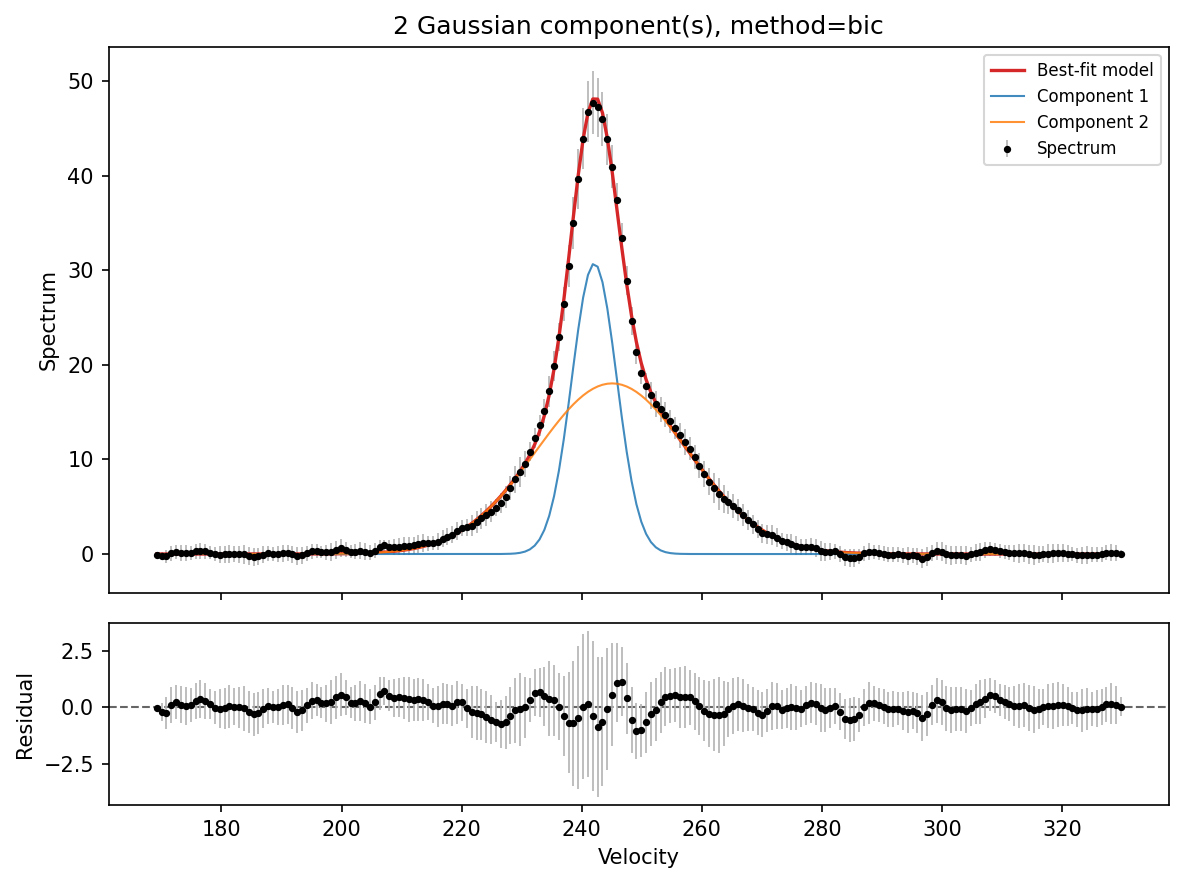
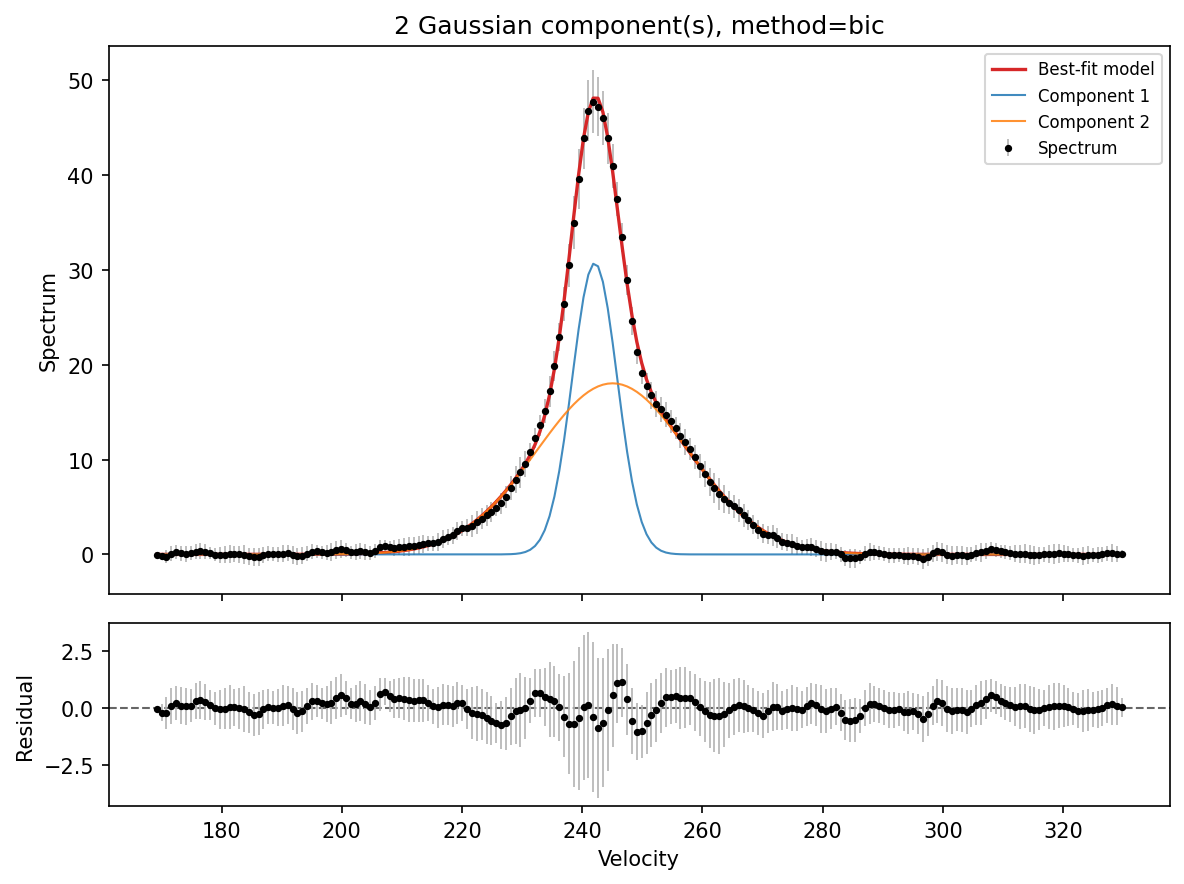
Release v1.0.0

diff --git a/src/gaussFitSpec/fitting.py b/src/gaussFitSpec/fitting.py
@@ -8,6 +8,7 @@ import warnings
 import numpy as np
 import pandas as pd
 from scipy import stats
+from scipy.ndimage import convolve1d
 from scipy.ndimage import gaussian_filter1d
 from scipy.optimize import OptimizeWarning, curve_fit
 from scipy.signal import find_peaks
@@ -122,6 +123,8 @@ def fit_spectrum(
     max_fwhm=None,
     initial_centers=None,
     fixed_n_components=None,
+    bic_weight=10.0,
+    verbose=False,
 ):
     """Fit a 1D spectrum with multiple Gaussian components.
 
@@ -153,6 +156,13 @@ def fit_spectrum(
             automatic model selection.
         fixed_n_components: Optional fixed number of components to fit. When
             provided, automatic model selection is skipped.
+        bic_weight: Minimum BIC improvement required before accepting an
+            additional Gaussian component when ``method="bic"``. This also
+            controls the extra penalty term applied to weak components, matching
+            the behavior of the reference fitting script.
+        verbose: If ``True``, print per-iteration progress messages during
+            sequential model selection. For BIC fits this includes the BIC
+            value and number of Gaussian components tried.
 
     Returns:
         A :class:`SpectrumFitResult` containing the component table, model
@@ -188,6 +198,8 @@ def fit_spectrum(
         spectrum_err=spectrum_err,
         min_fwhm=min_fwhm,
         max_fwhm=max_fwhm,
+        bic_weight=float(bic_weight),
+        verbose=bool(verbose),
     )
 
     if initial_centers is not None:
@@ -274,10 +286,12 @@ def _estimate_noise(spectrum):
 class _SequentialGaussianFitter:
     """Sequential model builder inspired by the original script logic."""
 
-    def __init__(self, velocity, spectrum, spectrum_err, min_fwhm=None, max_fwhm=None):
+    def __init__(self, velocity, spectrum, spectrum_err, min_fwhm=None, max_fwhm=None, bic_weight=10.0, verbose=False):
         self.velocity = velocity
         self.spectrum = spectrum
         self.spectrum_err = spectrum_err
+        self.bic_weight = float(bic_weight)
+        self.verbose = bool(verbose)
         self.noise = float(np.nanmedian(np.abs(spectrum_err)))
         self.dx = float(np.nanmedian(np.diff(velocity)))
         velocity_span = float(velocity.max() - velocity.min())
@@ -307,16 +321,75 @@ class _SequentialGaussianFitter:
         return params, covariance, stats_dict
 
     def select_bic(self, max_components):
-        best = None
-        previous_params = None
-        for n_components in range(1, max_components + 1):
-            params, covariance, stats_dict = self._fit_next_model(n_components, previous_params)
-            previous_params = params
-            if best is None or stats_dict["bic"] < best[2]["bic"]:
-                best = (params, covariance, stats_dict)
-        if best is None:
+        centers = self._initial_bic_candidate_centers()
+        if centers.size == 0:
+            centers = np.array([self.velocity[int(np.argmax(self.spectrum))]], dtype=float)
+
+        params0 = self._initial_params_from_centers(centers[:1], self.spectrum)
+        params, covariance, stats_dict = self._fit_model(params0)
+        bic_history = [{"n_components": 1, "bic": float(stats_dict["bic"])}]
+        if self.verbose:
+            print(f"BIC {stats_dict['bic']:.6f} n=1")
+
+        best_params = params
+        best_covariance = covariance
+        best_stats = dict(stats_dict)
+        best_stats["bic_history"] = list(bic_history)
+        current_params = params
+        current_centers = list(np.asarray(current_params)[1::3])
+        residual = self.spectrum - multi_gaussian(self.velocity, *current_params)
+        smoothed_residual = self._smooth_residual(residual)
+
+        while len(current_centers) < max_components:
+            candidate_centers = self._candidate_centers_from_signal(smoothed_residual, used_centers=current_centers)
+            if candidate_centers.size == 0:
+                break
+
+            best_candidate = None
+            for new_center in candidate_centers:
+                new_guess = self._initial_params_from_centers(np.array([new_center]), residual)
+                trial_params0 = np.concatenate([current_params, new_guess])
+                try:
+                    trial_params, trial_covariance, trial_stats = self._fit_model(trial_params0)
+                except RuntimeError:
+                    continue
+                if best_candidate is None or trial_stats["bic"] < best_candidate[2]["bic"]:
+                    best_candidate = (trial_params, trial_covariance, trial_stats)
+
+            if best_candidate is None:
+                break
+
+            current_params, current_covariance, current_stats = best_candidate
+            n_components = len(current_params) // 3
+            bic_history.append({"n_components": n_components, "bic": float(current_stats["bic"])})
+            if self.verbose:
+                print(f"BIC {current_stats['bic']:.6f} n={n_components}")
+
+            improvement = best_stats["bic"] - current_stats["bic"]
+            if improvement > self.bic_weight:
+                best_params = current_params
+                best_covariance = current_covariance
+                best_stats = dict(current_stats)
+                best_stats["bic_history"] = list(bic_history)
+            else:
+                break
+
+            current_centers = list(np.asarray(current_params)[1::3])
+            residual = self.spectrum - multi_gaussian(self.velocity, *current_params)
+            smoothed_residual = self._smooth_residual(residual)
+
+        best_params, best_covariance, best_stats = self._refit_filtered_components(
+            best_params,
+            best_covariance,
+            best_stats,
+            bic_history,
+        )
+
+        if best_params is None:
             raise RuntimeError("No valid fits were found.")
-        return best
+        if self.verbose:
+            print(f"final BIC={best_stats['bic']:.6f} n={len(best_params) // 3}")
+        return best_params, best_covariance, best_stats
 
     def select_f_test(self, max_components, alpha):
         accepted = None
@@ -403,11 +476,19 @@ class _SequentialGaussianFitter:
         n_samples = len(self.velocity)
         n_params = len(params)
         dof = max(n_samples - n_params, 1)
+        bic = chi2 + n_params * np.log(n_samples)
+        weak_component_floor = max(
+            abs(float(np.min(self.spectrum))),
+            float(np.max(np.abs(params[0::3]))) / 5.0 if len(params) else 0.0,
+            _estimate_component_noise(self.spectrum, self.spectrum_err, n=10) * 4.0,
+        )
+        weak_component_count = int(np.sum(np.abs(params[0::3]) < weak_component_floor))
+        bic += self.bic_weight * weak_component_count
         return {
             "chi2": chi2,
             "reduced_chi2": chi2 / dof,
             "aic": chi2 + 2.0 * n_params,
-            "bic": chi2 + n_params * np.log(n_samples),
+            "bic": float(bic),
             "rss": rss,
             "n_parameters": n_params,
         }
@@ -452,6 +533,91 @@ class _SequentialGaussianFitter:
                 amplitude = np.sign(amplitude) * self.noise if amplitude != 0 else self.noise
             params.extend([float(amplitude), float(self.velocity[idx]), float(default_sigma)])
         return np.asarray(params, dtype=float)
+
+    def _initial_bic_candidate_centers(self):
+        peak_indices, _ = find_peaks(
+            self.spectrum,
+            height=np.max(self.spectrum) / 5.0 if np.max(self.spectrum) > 0 else self.noise,
+            distance=5,
+        )
+        if peak_indices.size == 0:
+            return np.array([self.velocity[int(np.argmax(self.spectrum))]], dtype=float)
+
+        order = np.argsort(self.spectrum[peak_indices])[::-1]
+        ordered = peak_indices[order]
+        edge_buffer = max(self.velocity_span / 20.0, abs(self.dx) * 10.0)
+        mask = (self.velocity[ordered] > self.velocity.min() + edge_buffer) & (
+            self.velocity[ordered] < self.velocity.max() - edge_buffer
+        )
+        filtered = ordered[mask]
+        if filtered.size == 0:
+            filtered = ordered
+        return self.velocity[filtered]
+
+    @property
+    def velocity_span(self):
+        return float(self.velocity.max() - self.velocity.min())
+
+    def _smooth_residual(self, residual):
+        kernel = np.array([0.054489, 0.244201, 0.40262, 0.244201, 0.054489], dtype=float)
+        return convolve1d(residual, kernel, mode="nearest")
+
+    def _candidate_centers_from_signal(self, signal, used_centers):
+        height = np.max(signal) / 5.0 if np.max(signal) > 0 else self.noise
+        peak_indices, _ = find_peaks(signal, height=height, distance=5)
+        if peak_indices.size == 0:
+            peak_indices = np.array([int(np.argmax(signal))], dtype=int)
+        order = np.argsort(signal[peak_indices])[::-1]
+        ordered = peak_indices[order]
+        edge_buffer = max(self.velocity_span / 20.0, abs(self.dx) * 10.0)
+        ordered = ordered[
+            (self.velocity[ordered] > self.velocity.min() + edge_buffer)
+            & (self.velocity[ordered] < self.velocity.max() - edge_buffer)
+        ]
+        if ordered.size == 0:
+            return np.array([], dtype=float)
+
+        candidates = []
+        min_separation = max(self.min_sigma * FWHM_FACTOR, abs(self.dx) * 2.0)
+        for idx in ordered[:5]:
+            center = float(self.velocity[idx])
+            if all(abs(center - existing) >= min_separation for existing in used_centers):
+                candidates.append(center)
+        return np.asarray(candidates, dtype=float)
+
+    def _refit_filtered_components(self, params, covariance, stats_dict, bic_history):
+        if params is None or len(params) <= 3:
+            stats_dict = dict(stats_dict)
+            stats_dict["bic_history"] = list(bic_history)
+            return params, covariance, stats_dict
+
+        component_rows = params.reshape(-1, 3)
+        filtered_rows = []
+        for row in component_rows:
+            noise_here = _estimate_component_noise_at_center(row[1], self.velocity, self.spectrum_err)
+            if row[0] > noise_here * 3.0:
+                filtered_rows.append(row)
+
+        if not filtered_rows:
+            filtered_rows = [component_rows[int(np.argmax(component_rows[:, 0]))]]
+
+        filtered_params = np.asarray(filtered_rows, dtype=float).reshape(-1)
+        final_floor = max(
+            _estimate_component_noise(self.spectrum, self.spectrum_err, n=10) * 3.0,
+            abs(float(np.min(self.spectrum))) * 0.8,
+        )
+        filtered_matrix = filtered_params.reshape(-1, 3)
+        strongest = int(np.argmax(filtered_matrix[:, 0]))
+        keep_mask = ~(
+            (filtered_matrix[:, 0] < final_floor)
+            & (np.abs(filtered_matrix[:, 1] - filtered_matrix[strongest, 1]) > 20.0)
+        )
+        filtered_matrix = filtered_matrix[keep_mask]
+        filtered_params = filtered_matrix.reshape(-1)
+
+        final_params, final_covariance, final_stats = self._fit_model(filtered_params)
+        final_stats["bic_history"] = list(bic_history)
+        return final_params, final_covariance, final_stats
 
     def _parameter_bounds(self, n_components):
         lower_bounds = []
@@ -531,3 +697,22 @@ def _components_dataframe(name, params, covariance):
         )
 
     return pd.DataFrame(rows)
+
+
+def _estimate_component_noise(spectrum, spectrum_err, n=1):
+    spectrum = np.asarray(spectrum, dtype=float)
+    spectrum_err = np.asarray(spectrum_err, dtype=float)
+    positive = n * spectrum_err - spectrum
+    indices = np.argwhere(positive > 0).ravel()
+    if indices.size == 0:
+        return float(np.nanmean(spectrum_err))
+    return float(np.nanmean(spectrum_err[indices]))
+
+
+def _estimate_component_noise_at_center(center, velocity, spectrum_err):
+    velocity = np.asarray(velocity, dtype=float)
+    spectrum_err = np.asarray(spectrum_err, dtype=float)
+    indices = np.argwhere(np.abs(velocity - center) < 5.0).ravel()
+    if indices.size == 0:
+        return float(np.nanmean(spectrum_err))
+    return float(np.nanmean(spectrum_err[indices]))

diff --git a/tests/test_fit_model_selection.py b/tests/test_fit_model_selection.py
@@ -52,8 +52,30 @@ def test_bic_selects_two_components_and_sorts_by_velocity():
 
     assert result.n_components == 2
     assert result.fit_statistics["n_parameters"] == 6
+    assert result.fit_statistics["bic_history"][0]["n_components"] == 1
     assert result.components["velocity"].to_list() == pytest.approx([-3.0, 2.2], abs=1e-4)
     assert result.parameters == pytest.approx([2.5, -3.0, 0.7, 1.8, 2.2, 1.1], abs=1e-4)
+
+
+def test_bic_verbose_output_and_weight_are_configurable(capsys):
+    components = [(2.5, -3.0, 0.7), (1.8, 2.2, 1.1)]
+    velocity, spectrum, spectrum_err = make_synthetic_spectrum(components)
+
+    result = fit_spectrum(
+        velocity,
+        spectrum,
+        spectrum_err,
+        method="bic",
+        max_components=4,
+        bic_weight=5.0,
+        verbose=True,
+    )
+
+    captured = capsys.readouterr()
+    assert "BIC" in captured.out
+    assert "n=1" in captured.out
+    assert "final BIC=" in captured.out
+    assert result.n_components >= 1
 
 
 def test_initial_centers_override_model_selection_and_sort_output():
@@ -91,4 +113,3 @@ def test_f_test_accepts_second_component_when_improvement_is_significant():
     assert result.fit_statistics["f_value"] > 0
     assert result.fit_statistics["f_test_pvalue"] < 0.05
     assert result.parameters == pytest.approx([3.0, -4.0, 0.7, 2.2, 3.5, 0.9], abs=0.06)
-

diff --git a/examples/run_example.py b/examples/run_example.py
@@ -18,7 +18,7 @@ def main():
     input_file = examples_dir / "example_spectra.txt"
     output_csv = examples_dir / "example_components.csv"
     output_png = examples_dir / "example_fit.png"
-
+    
     velocity, spectrum, spectrum_err = read_spectrum(input_file)
     result = fit_spectrum(
         velocity,
@@ -27,6 +27,7 @@ def main():
         name="spectra1",
         method="bic",
         max_components=8,
+        verbose=True,
     )
 
     result.to_csv(output_csv)

diff --git a/docs/conf.py b/docs/conf.py
@@ -10,7 +10,7 @@ sys.path.insert(0, str(PROJECT_ROOT / "src"))
 
 project = "gaussFitSpec"
 author = "Hongxing Chen"
-release = "0.1.1"
+release = "1.0.0"
 
 extensions = [
     "sphinx.ext.autodoc",
